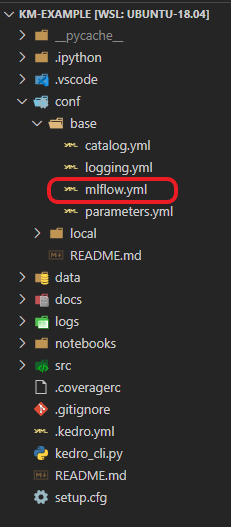
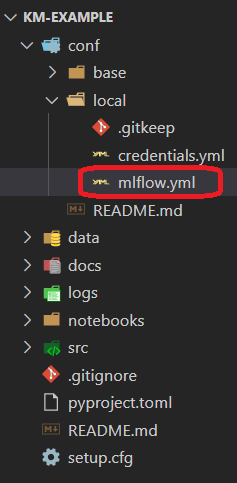
:memo: Fix image showing mlflow.yml default folder (#302)

Changed region(s): [[0.0, 0.0, 0.9697, 0.9627], [0.0606, 0.1863, 0.1212, 0.2174], [0.1515, 0.4348, 0.1818, 0.4658]]

diff --git a/CHANGELOG.md b/CHANGELOG.md
@@ -2,16 +2,20 @@
 
 ## [Unreleased]
 
+### Fixed
+
+-   :memo: Fix typo in documentation ([#302](https://github.com/Galileo-Galilei/kedro-mlflow/issues/302))
+
 ## [0.9.0] - 2022-04-01
 
 ### Added
 
--   :sparkles: Add support for `kedro=0.18.X`
+-   :sparkles: Add support for `kedro=0.18.X` ([#290](https://github.com/Galileo-Galilei/kedro-mlflow/issues/290))
 -   :sparkles: `kedro-mlflow` is now available on `conda-forge` and can be installed with `conda install kedro-mlflow`. This is retroactive to `kedro-mlflow==0.8.1` ([#118](https://github.com/Galileo-Galilei/kedro-mlflow/issues/118))
 
 ### Removed
 
--   :boom: :wastebasket: Drop support for `kedro=0.17.X`
+-   :boom: :wastebasket: Drop support for `kedro=0.17.X` ([#290](https://github.com/Galileo-Galilei/kedro-mlflow/issues/290))
 
 ## [0.8.1] - 2022-02-13
 
